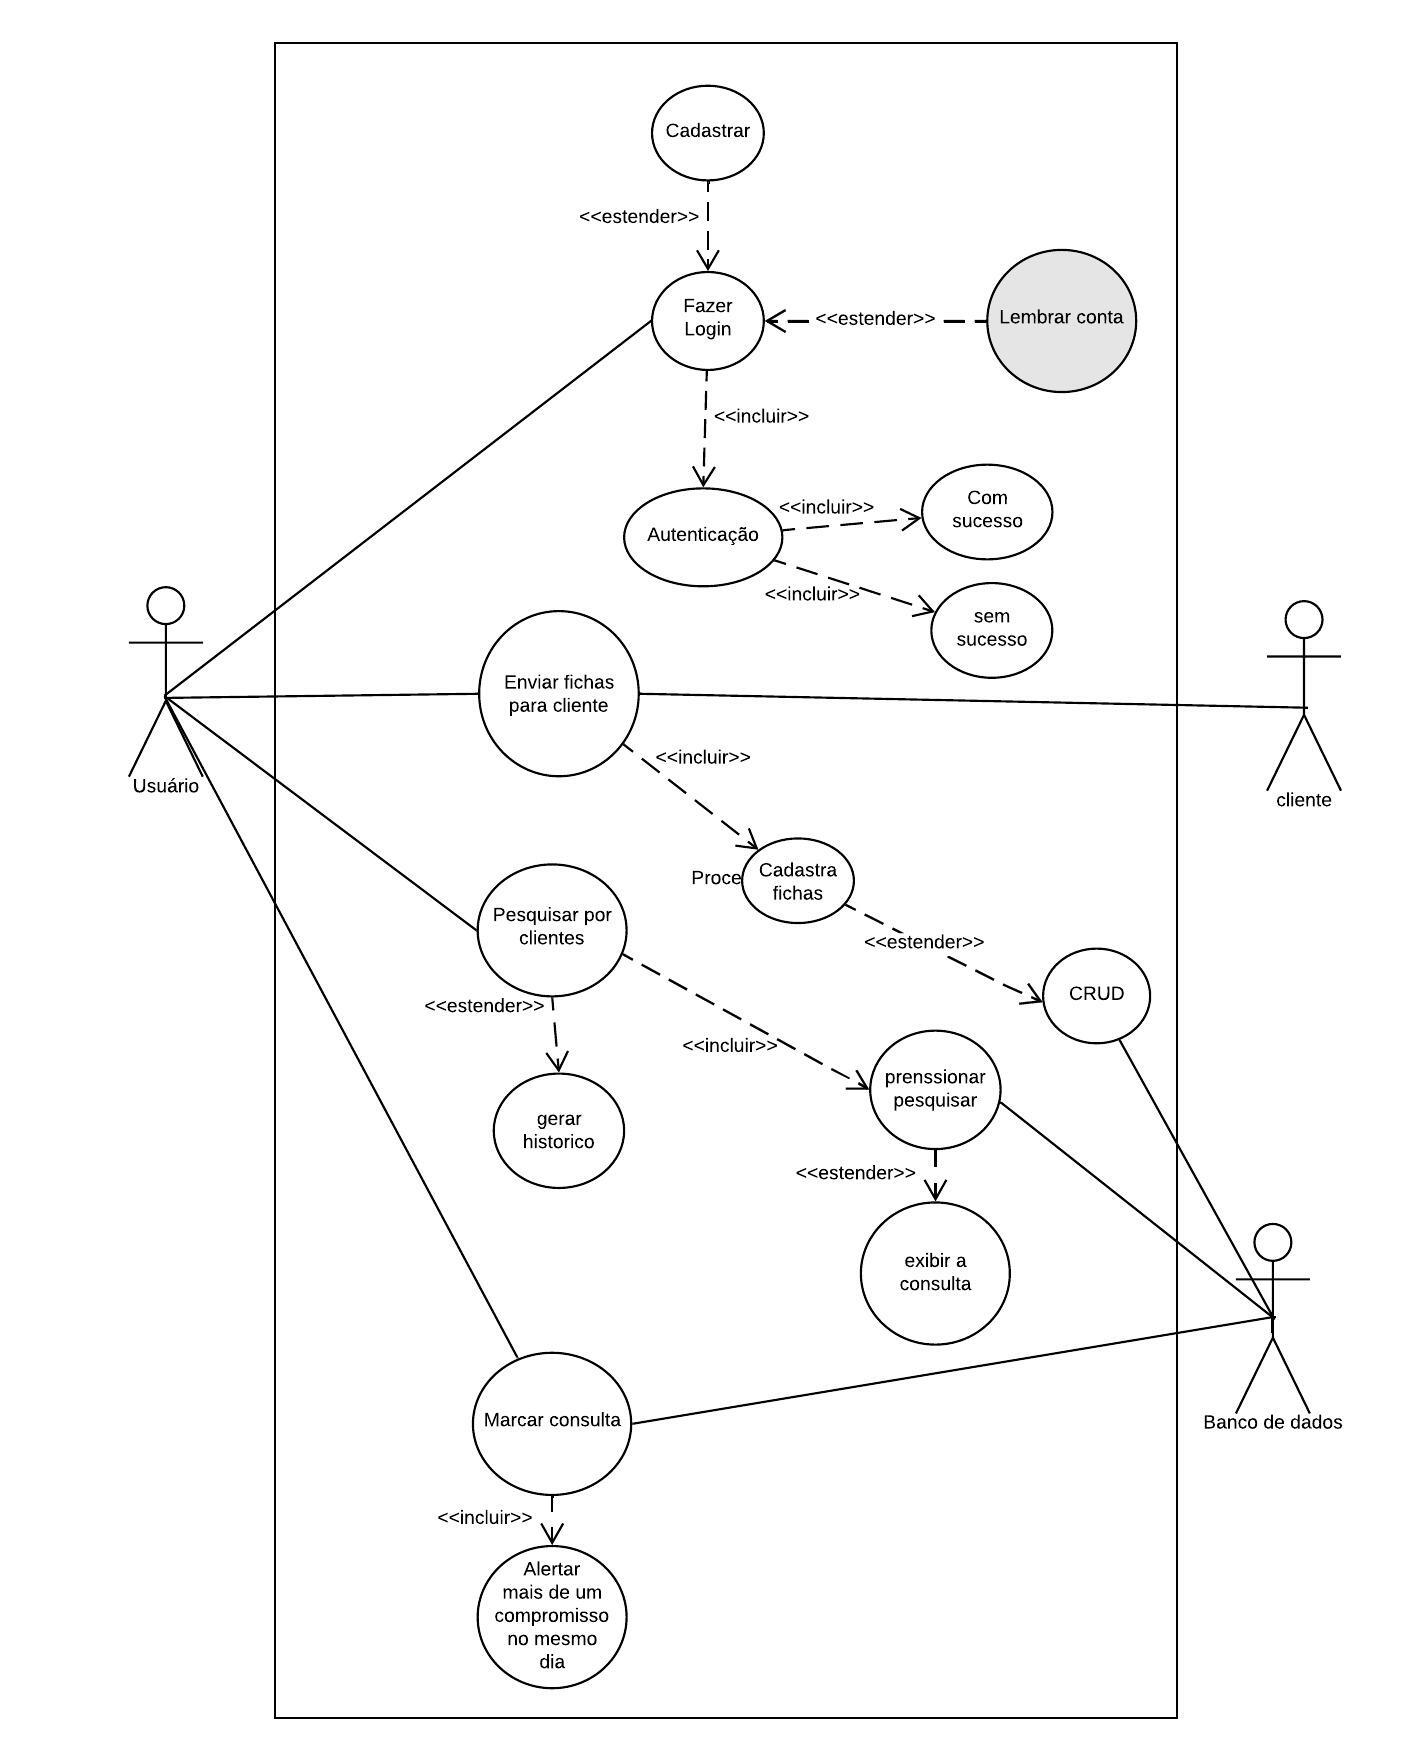
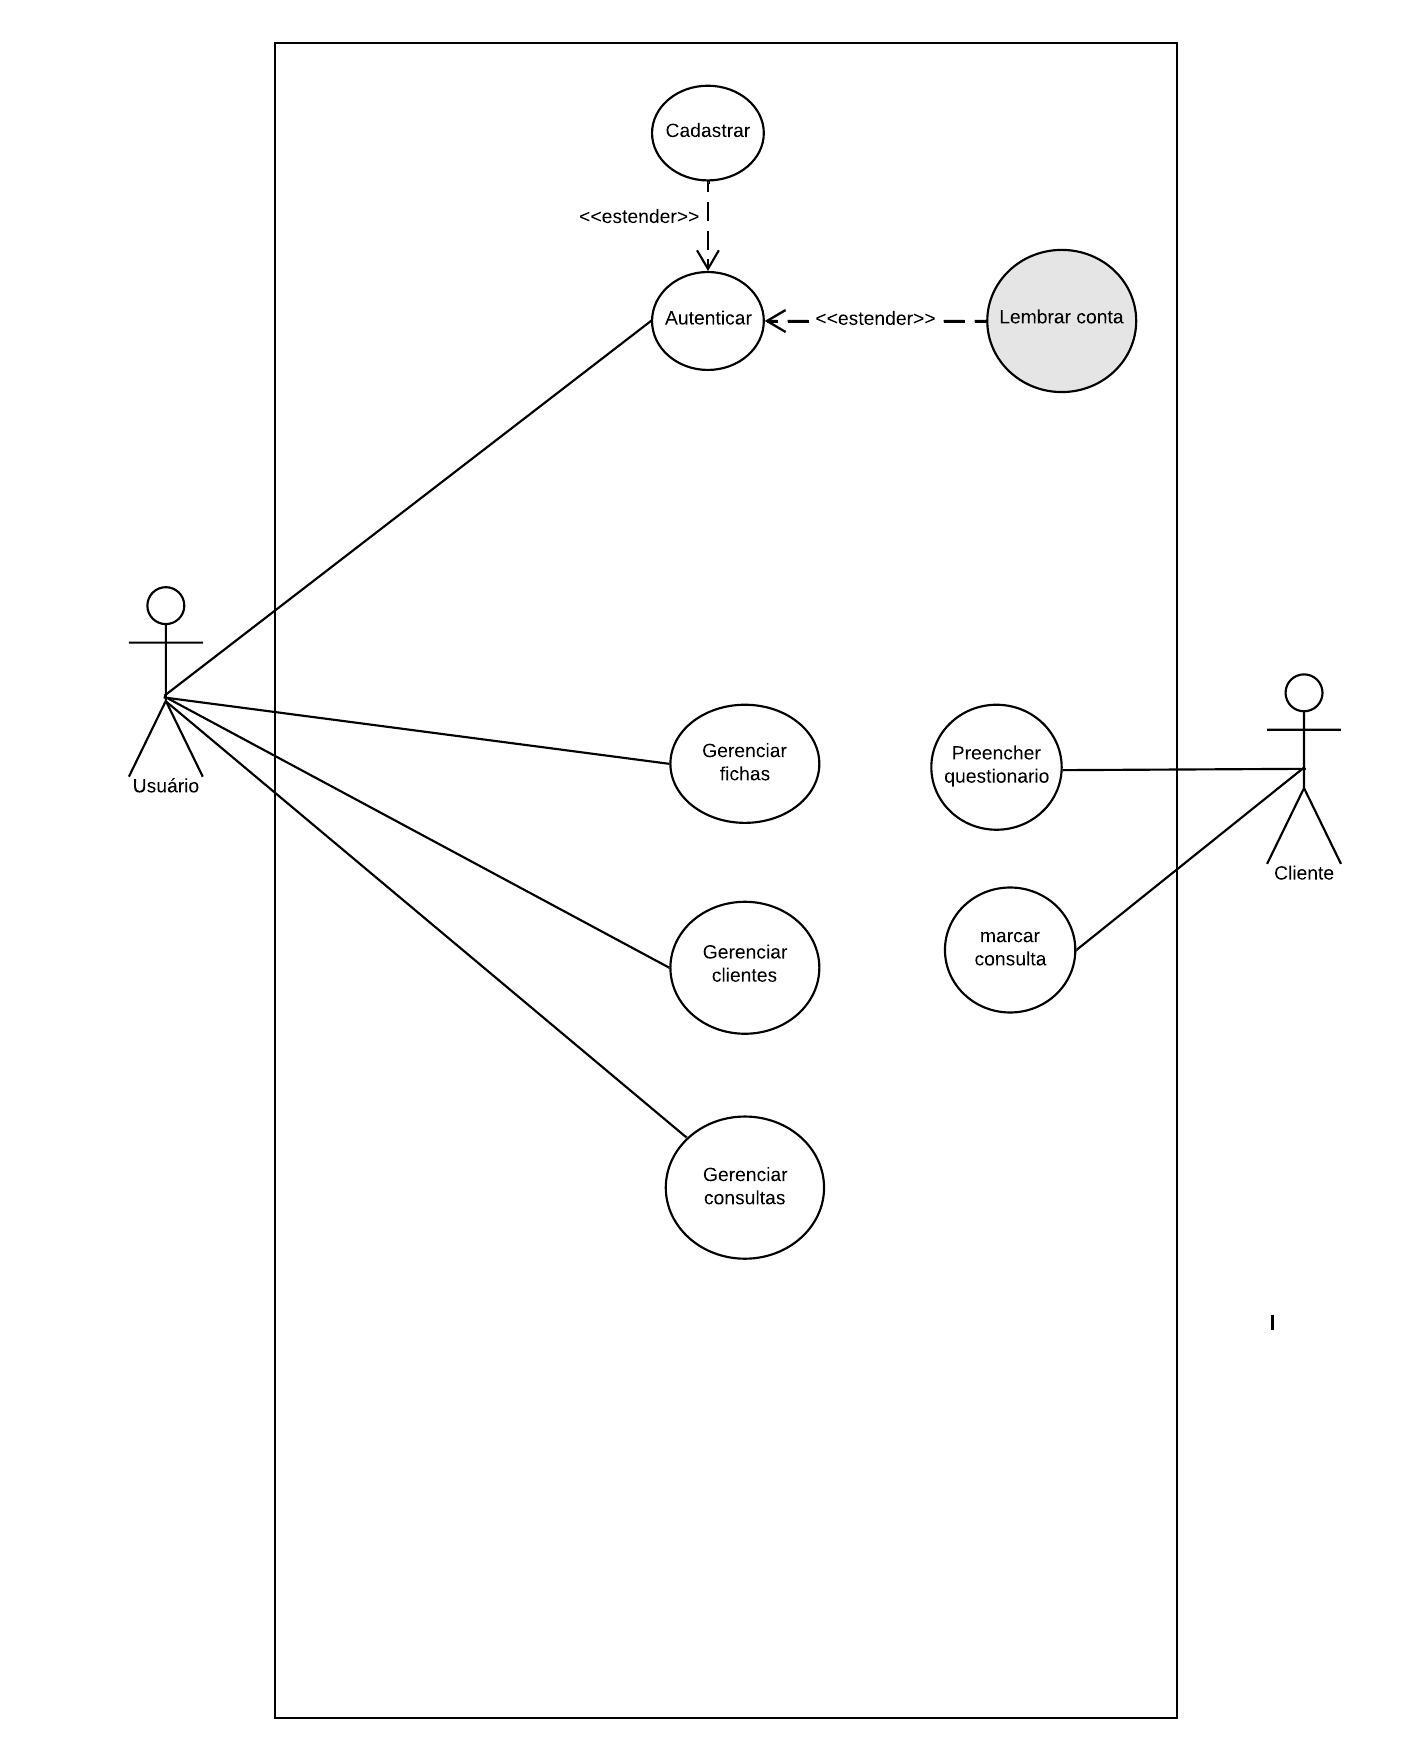
correção diagrama de casos de uso

diff --git a/documentos/02-Especificação do Projeto.md b/documentos/02-Especificação do Projeto.md
@@ -75,7 +75,7 @@ O projeto está restrito pelos itens apresentados na tabela a seguir.
 
 ## Diagrama de Casos de Uso
 
-![image](https://github.com/ICEI-PUC-Minas-PMV-ADS/pmv-ads-2024-1-e5-proj-empext-t1-pmv-ads-2024-1-e3-centro-estetico/assets/68014636/2f480789-03a8-4f0c-91aa-ede200143e84)
+![image](./img/Caso de Uso UML.jpeg)
 
 
 ## Modelo ER (Projeto Conceitual)
